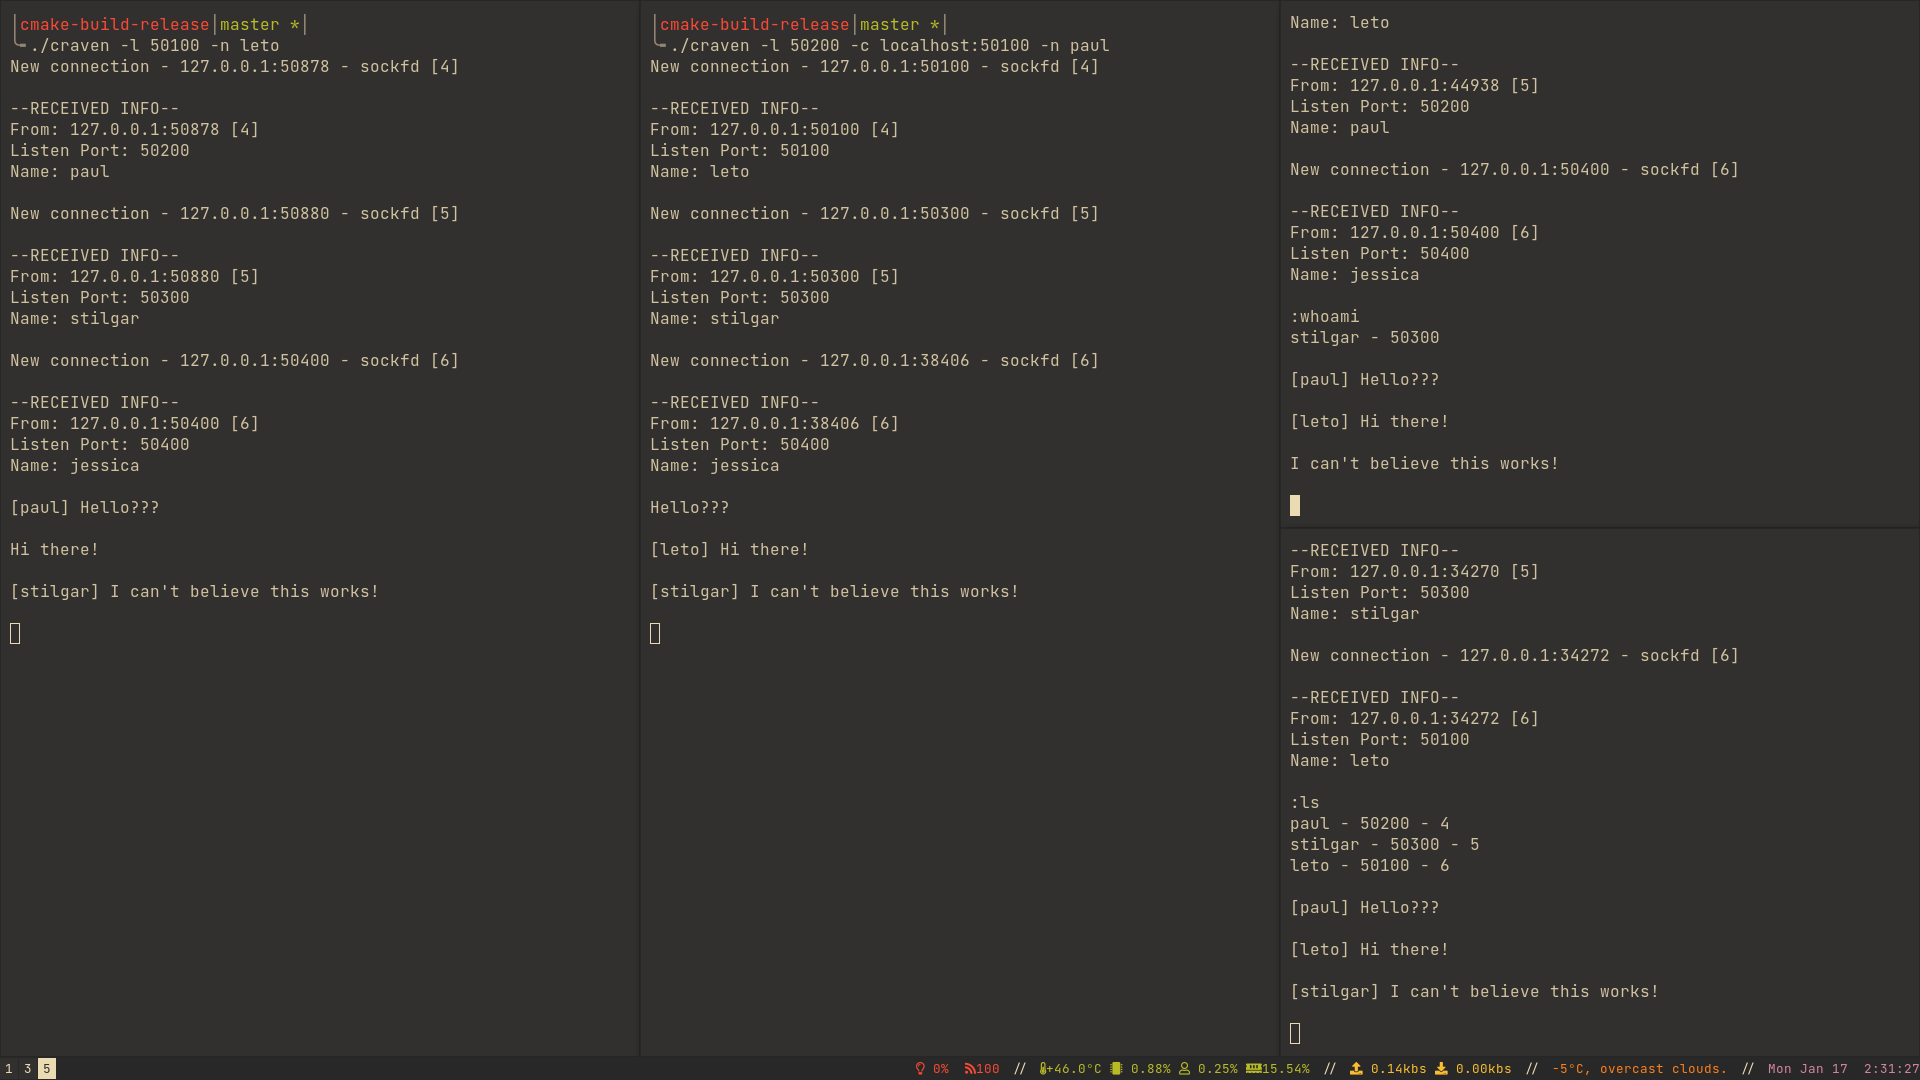
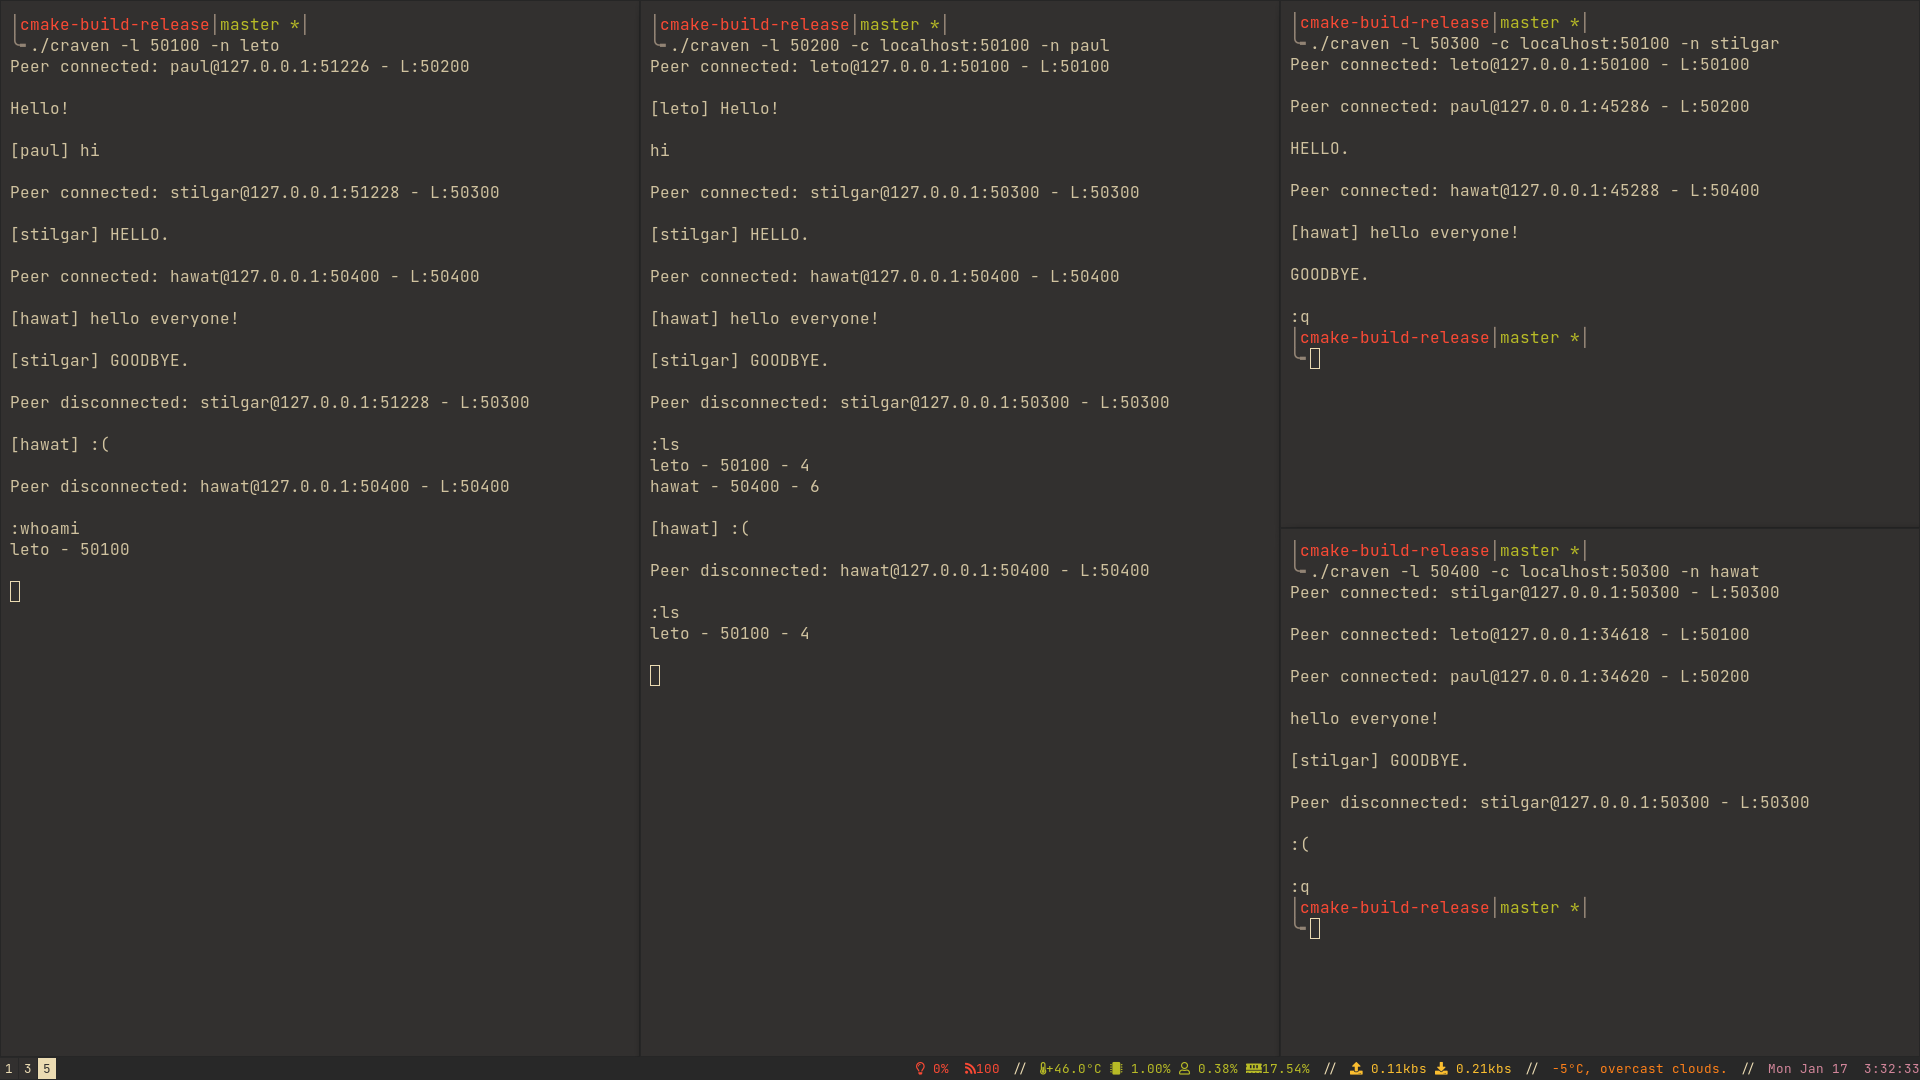
Safer exiting
Peers can exit without unleashing hell on the remaining network

diff --git a/craven.c b/craven.c
@@ -1,6 +1,7 @@
 #include <asm-generic/socket.h>
 #include <stdio.h>
 #include <stdlib.h>
+#include <unistd.h>
 #include <string.h>
 #include <sys/types.h>
 #include <sys/socket.h>
@@ -45,6 +46,7 @@ void send_meta(int sockfd, char forward);
 struct config conf;
 struct peer peers[MAX_PEERS];
 int n_peers = 0;
+int run = 1;
 
 void *input_thread(void *vargp)
 {
@@ -52,9 +54,12 @@ void *input_thread(void *vargp)
 	struct cr_msg message;
 	message.type = CR_MSG;
 
-	while(1) {
+	while(run) {
 		fgets(message.message, SEND_BUF_SIZE, stdin);
-		if(strncmp(":ls", message.message, 3) == 0) {
+		if(strncmp("\n", message.message, 1) == 0) {
+			continue;
+		}
+		else if(strncmp(":ls", message.message, 3) == 0) {
 			for(int i = 0; i < n_peers; i++) {
 				printf("%s - %hu - %d\n", peers[i].meta.name, peers[i].meta.l_port, peers[i].sockfd);
 			}
@@ -63,12 +68,15 @@ void *input_thread(void *vargp)
 		else if(strncmp(":whoami", message.message, 7) == 0) {
 			printf("%s - %hu\n\n", conf.name, conf.l_port);
 		}
+		else if(strncmp(":q", message.message, 2) == 0) {
+			run = 0;
+		}
 		else {
 			for(int i = 0; i < n_peers; i++) {
 				bytes_sent = send(peers[i].sockfd, &message, cr_msg_size(&message), 0);
-			#ifndef NDEBUG
+				#ifndef NDEBUG
 				printf("Sent [%zu] bytes to sockfd %d\n",bytes_sent, peers[i].sockfd);
-			#endif
+				#endif
 			}
 			printf("\n");
 		}
@@ -80,6 +88,7 @@ int main(int argc, char* argv[])
 	struct addrinfo hints, *res;
 	int sockfd_listen;
 	long status;
+	char addr_buf[ADDR_LEN]; // For holding addresses in presentation form
 	char port_buf[PORT_LEN]; // For converting port from ushort to char[]
 
 	struct pollfd pfds_new_peer[1];  // Monitors new peer requests
@@ -89,9 +98,9 @@ int main(int argc, char* argv[])
 	// argp ===================================================================
 
 	struct argp_option options[] = {
-		{ 0, 'l', "listen port",   0, "Port to listen on." },
+		{ 0, 'l', "port",          0, "Port to listen on." },
 		{ 0, 'c', "address:port",  0, "Connect to port @ address." },
-		{ 0, 'n', "name",          0, "Name to use." },
+		{ 0, 'n', "name",          0, "Name that other peers will see." },
 		{ 0 }
 	};
 	struct argp argp = {options, parse_opt, 0, 0};
@@ -160,7 +169,7 @@ int main(int argc, char* argv[])
 	int has_pollin;
 	size_t bytes_recvd;
 
-	while(1) {
+	while(run) {
 		num_events = poll(pfds_new_peer, 1, 50);
 		if(num_events != 0) {
 			has_pollin = pfds_new_peer[0].revents & POLLIN;
@@ -179,7 +188,9 @@ int main(int argc, char* argv[])
 				pfds_peers[n_peers].events = POLLIN;
 				n_peers++;
 
+				#ifndef NDEBUG
 				print_connection_msg(sockfd, &new_addr);
+				#endif
 			}
 		}
 
@@ -190,6 +201,11 @@ int main(int argc, char* argv[])
 				if(has_pollin) {
 					int sockfd = pfds_peers[i].fd;
 					struct peer* peer = &(peers[i]);
+					struct sockaddr_in sa_in;
+					socklen_t len = sizeof (struct sockaddr);
+					getpeername(peer->sockfd, (struct sockaddr*)&sa_in, &len);
+					inet_ntop(sa_in.sin_family, &(sa_in.sin_addr), addr_buf, 32);
+					unsigned short port = htons(sa_in.sin_port);
 					bytes_recvd = recv(sockfd, &crp, RECV_BUF_SIZE - 1, 0);
 
 					if(crp.type == CR_MSG) {
@@ -200,23 +216,22 @@ int main(int argc, char* argv[])
 						printf("[%s] %s\n", peer->meta.name, crm->message);
 					}
 					else if(crp.type == CR_META) {
-						struct cr_meta* cri = (struct cr_meta*)&crp;
-						memcpy(&(peer->meta), cri, sizeof (struct cr_meta));
-						struct sockaddr_in sa_in;
-						socklen_t len = sizeof (struct sockaddr);
-						getpeername(peer->sockfd, (struct sockaddr*)&sa_in, &len);
-						char buf[32];
-						inet_ntop(sa_in.sin_family, &(sa_in.sin_addr), buf, 32);
+						struct cr_meta* crm = (struct cr_meta*)&crp;
+						memcpy(&(peer->meta), crm, sizeof (struct cr_meta));
+						#ifndef NDEBUG
 						printf("--RECEIVED INFO--\n");
-						printf("From: %s:%hu [%d]\n", buf, htons(sa_in.sin_port), peer->sockfd);
-						printf("Listen Port: %hu\nName: %s\n\n", cri->l_port, cri->name);
+						printf("From: %s:%hu [%d]\n", addr_buf, htons(sa_in.sin_port), peer->sockfd);
+						printf("Listen Port: %hu\nName: %s\n\n", crm->l_port, crm->name);
+						#else
+						printf("Peer connected: %s@%s:%hu - L:%hu\n\n", crm->name, addr_buf, port, crm->l_port);
+						#endif
 
 						// Tell all other peers to connect to new person
-						if(cri->forward) {
+						if(crm->forward) {
 							struct cr_conn new_conn;
 							new_conn.type = CR_CONN;
-							strncpy(new_conn.addr, buf, ADDR_LEN);
-							new_conn.port = cri->l_port;
+							strncpy(new_conn.addr, addr_buf, ADDR_LEN);
+							new_conn.port = crm->l_port;
 							for(int p = 0; p < n_peers; p++) {
 								if(peers[p].sockfd != sockfd) {
 									send(peers[p].sockfd, &new_conn, sizeof (struct cr_conn), 0);
@@ -229,6 +244,13 @@ int main(int argc, char* argv[])
 						sockfd = make_connection(crc->addr, crc->port, pfds_peers);
 						send_meta(sockfd, 0);
 					}
+					else if(crp.type == CR_KILL) {
+						printf("Peer disconnected: %s@%s:%hu - L:%hu\n\n", peer->meta.name, addr_buf, port, peer->meta.l_port);
+						close(peers[i].sockfd);
+						memcpy(&peers[i], &peers[n_peers-1], sizeof (struct peer));
+						memcpy(&pfds_peers[i], &pfds_peers[n_peers-1], sizeof (struct pollfd));
+						n_peers--;
+					}
 					else {
 						printf("RECEIVED UNKNOWN PACKET\n\n");
 					}
@@ -237,6 +259,13 @@ int main(int argc, char* argv[])
 			}
 		}
 
+	}
+
+	struct cr_kill crk;
+	crk.type = CR_KILL;
+	for(int i = 0; i < n_peers; i++) {
+		send(peers[i].sockfd, &crk, sizeof (struct cr_kill), 0);
+		close(peers[i].sockfd);
 	}
 
 	return 0;
@@ -290,7 +319,13 @@ void init_config(struct config* config)
 
 void print_usage()
 {
-	printf("USAGE: craven -l port [-c addr:port | -n name]\n");
+	printf(
+		"USAGE: craven -l port [-c addr:port | -n name]\n"
+		"Commands:\n"
+		"    :ls     -> List current peers\n"
+		"    :q      -> Quit\n"
+		"    :whoami -> Get name and port information\n"
+	);
 }
 
 void print_connection_msg(int sockfd, struct sockaddr_storage* sas)
@@ -332,7 +367,6 @@ int make_connection(char* addr, unsigned short port, struct pollfd* pollfds)
 	struct addrinfo hints, *res;
 	int sockfd;
 	int status;
-	struct sockaddr_storage* sas;
 	char port_buf[PORT_LEN];
 
 	memset(&hints, 0, sizeof hints);
@@ -340,7 +374,7 @@ int make_connection(char* addr, unsigned short port, struct pollfd* pollfds)
 	hints.ai_socktype = SOCK_STREAM;
 	hints.ai_flags = AI_PASSIVE;
 
-	snprintf(port_buf, PORT_LEN, "%hu", port); // %hu = unsigned short
+	snprintf(port_buf, PORT_LEN, "%hu", port);
 	status = getaddrinfo(addr, port_buf, &hints, &res);
 	check_status(status, 0, "addr info");
 
@@ -357,8 +391,11 @@ int make_connection(char* addr, unsigned short port, struct pollfd* pollfds)
 
 	n_peers++;
 
+	#ifndef NDEBUG
+	struct sockaddr_storage* sas;
 	sas = (struct sockaddr_storage*)res->ai_addr;
 	print_connection_msg(sockfd, sas);
+	#endif
 
 	return sockfd;
 }

diff --git a/packet.h b/packet.h
@@ -6,6 +6,7 @@
 #define CR_MSG 1
 #define CR_META 2
 #define CR_CONN 3
+#define CR_KILL 4
 
 #define CR_PACKET_SIZE 256
 #define CR_MSG_LEN 64
@@ -38,6 +39,10 @@ struct cr_conn {
 	char type;
 	char addr[ADDR_LEN];
 	unsigned short port;
+};
+
+struct cr_kill {
+	char type;
 };
 
 size_t cr_msg_size(struct cr_msg* crm)
